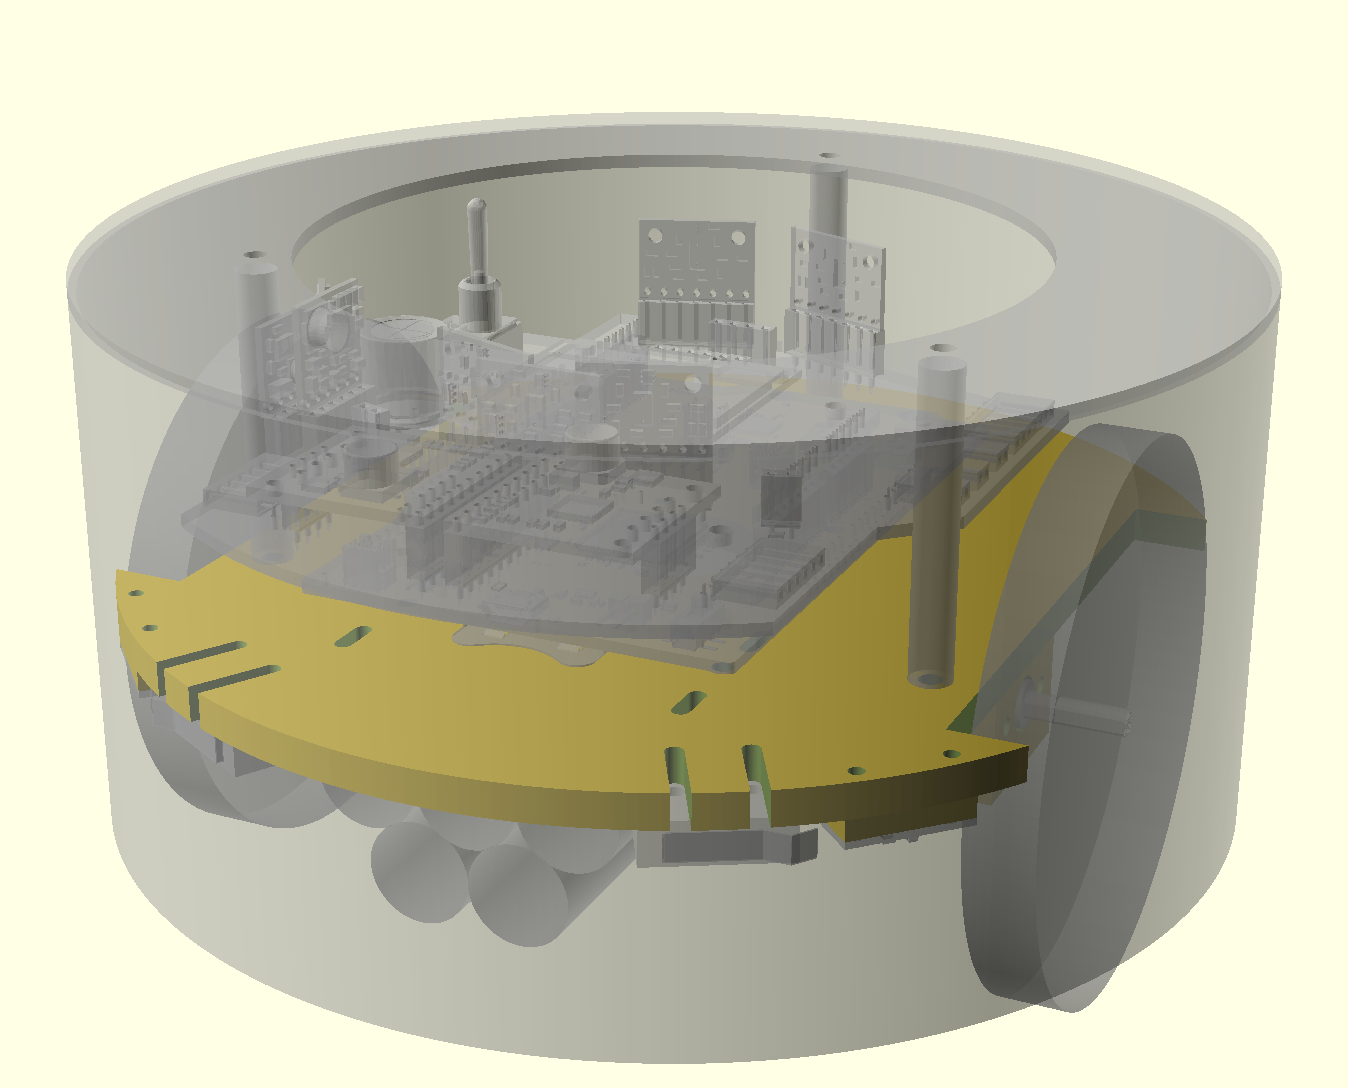
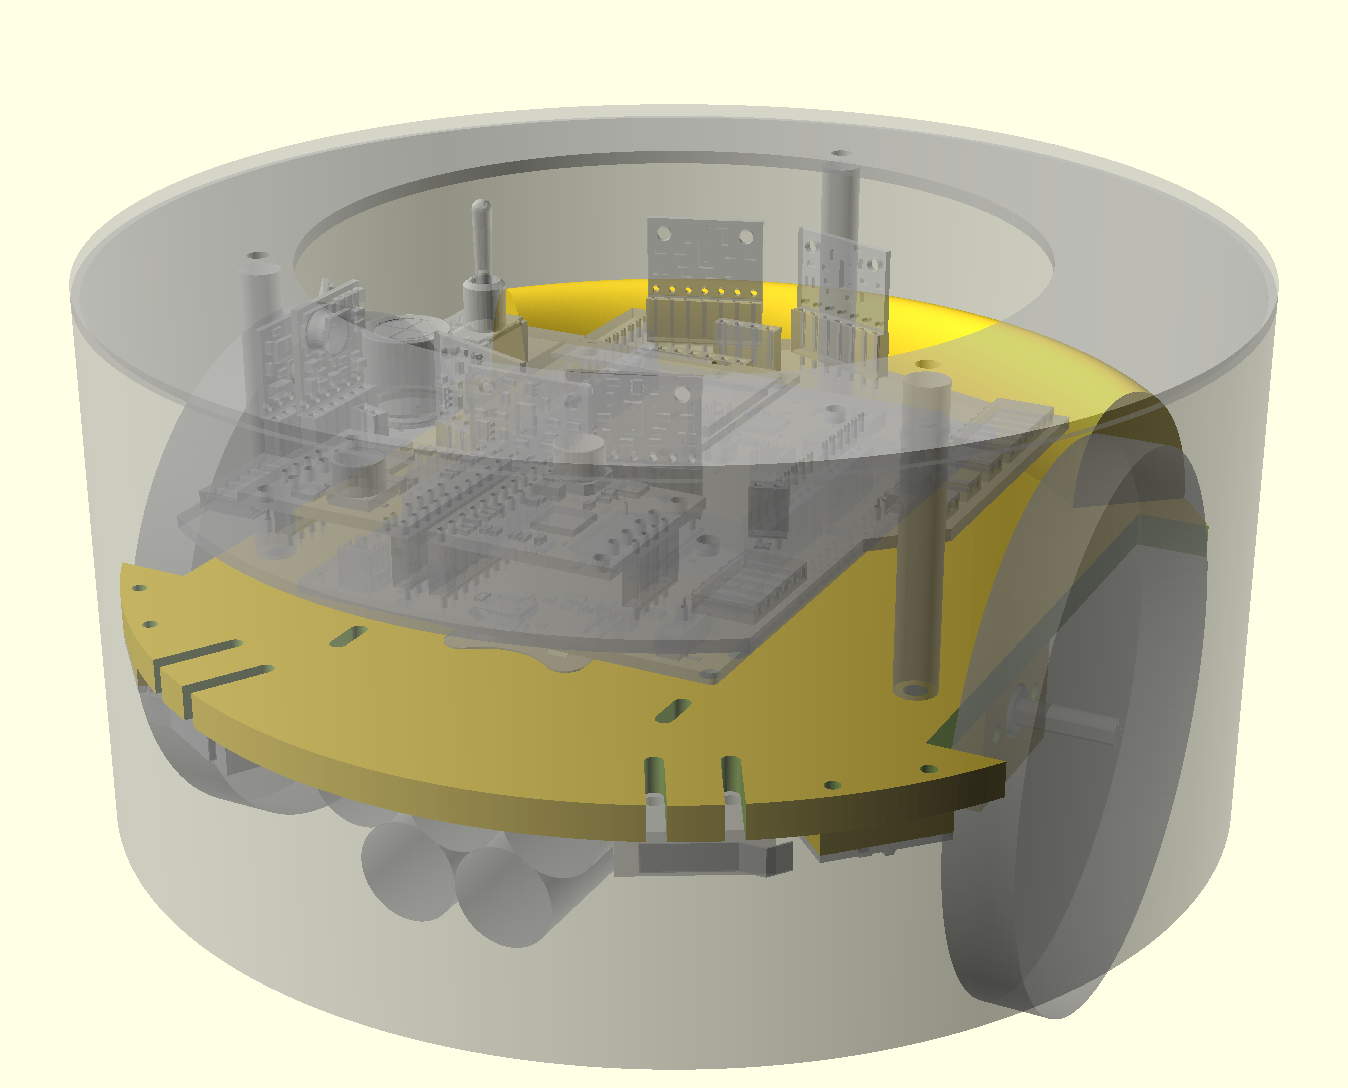
README updates
* Show and briefly mention the newly added counter weight holder.
* Update RugRover.jpg to show the bot with counter weight and PCBs
  attached.

diff --git a/README.md b/README.md
@@ -54,7 +54,7 @@ Having recently reread the book, I thought it would be fun to build a comparable
 | 1 | [Diode Schottky 60 V 7A Surface Mount TO-277A ](https://www.digikey.com/en/products/detail/vishay-general-semiconductor-diodes-division/SS10P6-M3-86A/2152231) |
 | 1 | [Toggle Switch SPDT Through Hole](https://www.digikey.com/en/products/detail/e-switch/100SP1T1B4M2QE/378824?s=N4IgTCBcDaIKIHEwGYCsqC0A5AIiAugL5A) |
 | 1 | [Rechargeable NiMH Battery Pack: 6.0 V, 2200 mAh, 3+2 AA Cells, JR Connector](https://www.pololu.com/product/2224) |
-| 1 | [Red Dirt Derby 2 oz Tungsten Putty Weights](https://www.amazon.com/Red-Dirt-Derby-Tungsten-Pinewood/dp/B06Y5FDLL6) |
+| 2 | [Red Dirt Derby 2 oz Tungsten Putty Weights](https://www.amazon.com/Red-Dirt-Derby-Tungsten-Pinewood/dp/B06Y5FDLL6) |
 | 1 | [1/4" OD Black Latex Tubing for Bumper Skirt Standoffs](https://www.amazon.com/LATEX-TUBING-602-BLACK-10FT/dp/B074NCLZSW) |
 | X | Already owned 0805 passives, 0.1" headers, etc. |
 | X | Already owned M2, M2.5, and M3 hardware |
@@ -80,7 +80,7 @@ When it comes to robot building, the mechanical portions are my weakest area. On
 * Chassis has holes for attachment of following parts to the topside of the chassis:
   * 5 x Standoffs for Nordic nRF52-DK Development Kit PCB to which shield with remaining sensors/actuators will be mounted.
   * 3 x Flexible Rubber Tube Standoffs to which the bumper skirt is attached, allowing bumper to move and press against micro switches when an obstacle is encountered.
-  * Will probably also need at least 50g of counterweight in the back to move the center of mass closer to the caster so that the robot doesn't nose dive during quick decelerations. Only having room for the batteries at the front of the bot increases the need for this counterweight.
+  * A separate curved cylindrical 3D printed holder that goes on the back of the robot to hold ~100g of tungsten counter weight. This moves the center of mass closer to the caster so that the robot doesn't nose dive during quick decelerations. Only having room for the batteries at the front of the bot increased the need for this counterweight.
 * A separate bumper skirt is printed to enclose the robot.
   * It is mounted to the chassis on flexible rubber tube standoffs like the Rug Warrior Pro.
 
@@ -113,11 +113,7 @@ Once I had the mechanical design mostly figured out, I moved onto the design of 
    * 12V from Boost Regulator for PIR Sensor
    * 3.3V from Buck Regulator for rest of Electronics
 
-![3D Board View](hardware/shield.png)
-
-The board design has now been sent off to [OSHPark](https://oshpark.com) for fabrication.
-
-![Top of PCB](photos/20220406-01.png)</br>
-![Bottom of PCB](photos/20220406-02.png)
+![3D Board View](hardware/shield.png)</br>
+![Photo of boards back from OSHPark](photos/20220420-01.jpg)
 
 [Schematic PDF](hardware/shield.pdf)</br>
